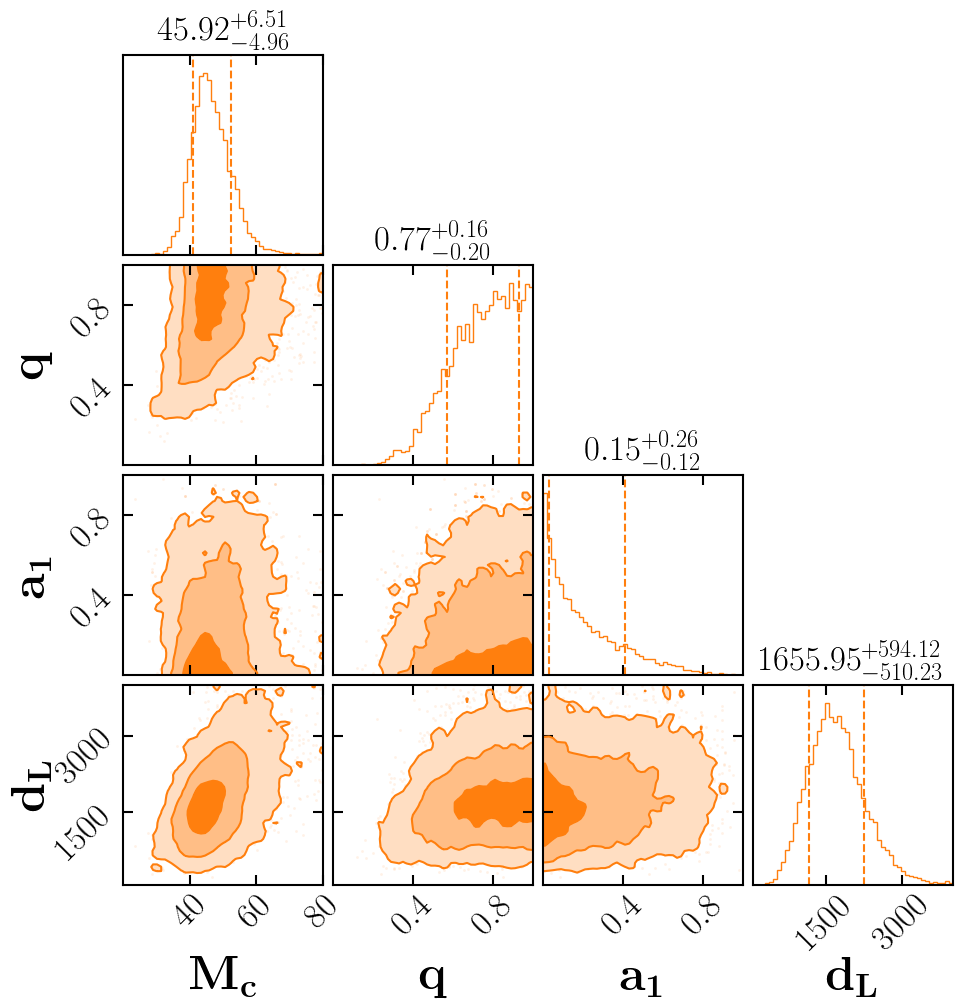
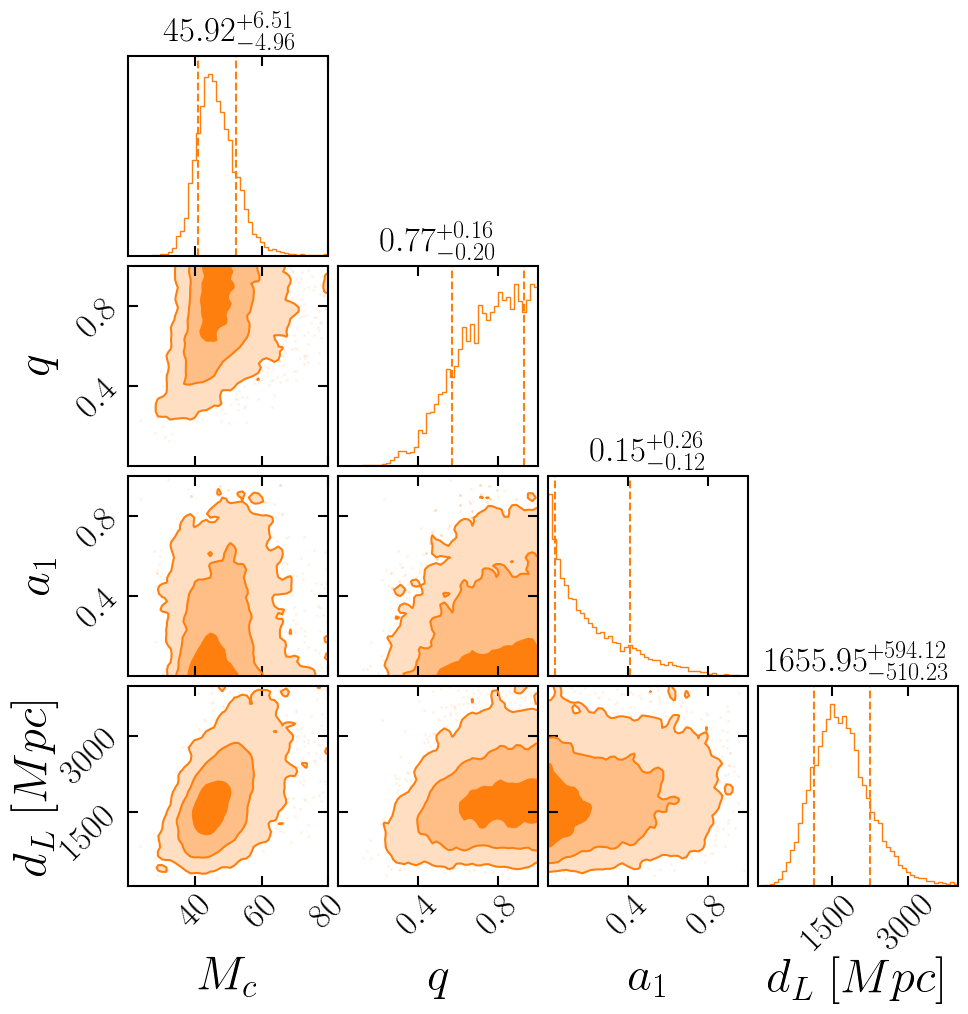
remove bolds

diff --git a/scripts/plot_corners.py b/scripts/plot_corners.py
@@ -5,29 +5,54 @@ Script to plot "170222_prior_posterior.png" and "170222_source_posterior.png"
 import bilby
 import numpy as np
 from settings import set_matplotlib_style_settings
+import matplotlib
+import matplotlib.pyplot as plt
+
+plt.rc('text', usetex=True)
+plt.rc('text.latex', preamble=r'\usepackage{amsmath}')
+
 
 RES_PATH = "data/corner_data/170222_result.json"
 PRIOR = "data/corner_data/454ns.prior"
 
 set_matplotlib_style_settings()
 
+# PARAMS = dict(
+#     chi_eff=dict(latex_label=r"$\pmb{\chi_{eff}}$", range=(-0.8, 0.8)),
+#     chi_p=dict(latex_label=r"$\pmb{\chi_{p}}$", range=(0, 1)),
+#     a_1=dict(latex_label=r"$\pmb{a_1}$", range=(0, 1)),
+#     chi_1=dict(latex_label=r"$\pmb{\chi_1}$", range=(-1, 1)),
+#     cos_tilt_1=dict(latex_label=r"$\pmb{\cos(t1)}$", range=(-1, 1)),
+#     cos_tilt_2=dict(latex_label=r"$\pmb{\cos(t2)}$", range=(-1, 1)),
+#     cos_theta_12=dict(latex_label=r"$\pmb{\cos \theta_{12}}$", range=(-1, 1)),
+#     tilt_1=dict(latex_label=r"$tilt_{1}$", range=(0, np.pi)),
+#     remnant_kick_mag=dict(latex_label=r"$|\vec{v}_k|\ $km/s", range=(0, 3000)),
+#     chirp_mass=dict(latex_label=r"$\pmb{M_{c}}$", range=(20, 80)),
+#     mass_1_source=dict(latex_label=r"$\pmb{m_1^{}\ [M_\odot]}$", range=(25, 80)),
+#     mass_2_source=dict(latex_label=r"$\pmb{m_2^{}\ [M_\odot]}$", range=(15, 60)),
+#     luminosity_distance=dict(latex_label="$\pmb{d_L}\ \\bm{[Mpc]}$", range=(50, 4000)),
+#     log_snr=dict(latex_label="$\\rm{log}_{10}\ \\rho$)", range=(-1, 3)),
+#     redshift=dict(latex_label=r"$\pmb{z}$", range=(0, 1)),
+#     mass_ratio=dict(latex_label=r"$\pmb{q}$", range=(0, 1)),
+# )
+
 PARAMS = dict(
-    chi_eff=dict(latex_label=r"$\mathbf{\chi_{eff}}$", range=(-0.8, 0.8)),
-    chi_p=dict(latex_label=r"$\mathbf{\chi_{p}}$", range=(0, 1)),
-    a_1=dict(latex_label=r"$\mathbf{a_1}$", range=(0, 1)),
-    chi_1=dict(latex_label=r"$\mathbf{\chi_1}$", range=(-1, 1)),
-    cos_tilt_1=dict(latex_label=r"$\mathbf{\cos(t1)}$", range=(-1, 1)),
-    cos_tilt_2=dict(latex_label=r"$\mathbf{\cos(t2)}$", range=(-1, 1)),
-    cos_theta_12=dict(latex_label=r"$\mathbf{\cos \theta_{12}}$", range=(-1, 1)),
+    chi_eff=dict(latex_label=r"${\chi_{eff}}$", range=(-0.8, 0.8)),
+    chi_p=dict(latex_label=r"${\chi_{p}}$", range=(0, 1)),
+    a_1=dict(latex_label=r"${a_1}$", range=(0, 1)),
+    chi_1=dict(latex_label=r"${\chi_1}$", range=(-1, 1)),
+    cos_tilt_1=dict(latex_label=r"${\cos(t1)}$", range=(-1, 1)),
+    cos_tilt_2=dict(latex_label=r"${\cos(t2)}$", range=(-1, 1)),
+    cos_theta_12=dict(latex_label=r"${\cos \theta_{12}}$", range=(-1, 1)),
     tilt_1=dict(latex_label=r"$tilt_{1}$", range=(0, np.pi)),
     remnant_kick_mag=dict(latex_label=r"$|\vec{v}_k|\ $km/s", range=(0, 3000)),
-    chirp_mass=dict(latex_label=r"$\mathbf{M_{c}}$", range=(20, 80)),
-    mass_1_source=dict(latex_label=r"$\mathbf{m_1^{source}}$", range=(25, 80)),
-    mass_2_source=dict(latex_label=r"$\mathbf{m_2^{source}}$", range=(15, 60)),
-    luminosity_distance=dict(latex_label="$\mathbf{d_L}$", range=(50, 4000)),
+    chirp_mass=dict(latex_label=r"${M_{c}}$", range=(20, 80)),
+    mass_1_source=dict(latex_label=r"${m_1^{}\ [M_\odot]}$", range=(25, 80)),
+    mass_2_source=dict(latex_label=r"${m_2^{}\ [M_\odot]}$", range=(15, 60)),
+    luminosity_distance=dict(latex_label="${d_L}\ {[Mpc]}$", range=(50, 4000)),
     log_snr=dict(latex_label="$\\rm{log}_{10}\ \\rho$)", range=(-1, 3)),
-    redshift=dict(latex_label=r"$\mathbf{z}$", range=(0, 1)),
-    mass_ratio=dict(latex_label=r"$\mathbf{q}$", range=(0, 1)),
+    redshift=dict(latex_label=r"${z}$", range=(0, 1)),
+    mass_ratio=dict(latex_label=r"${q}$", range=(0, 1)),
 )
 
 
